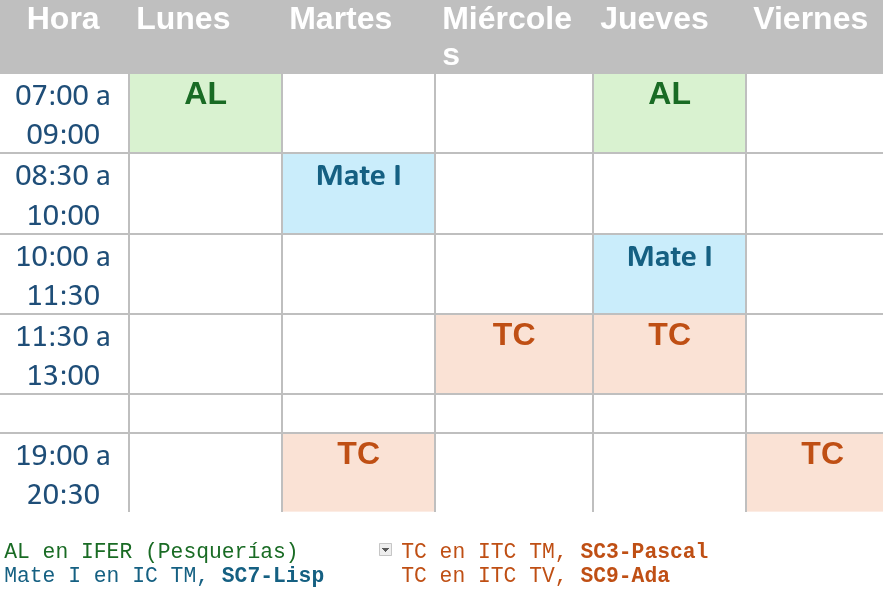
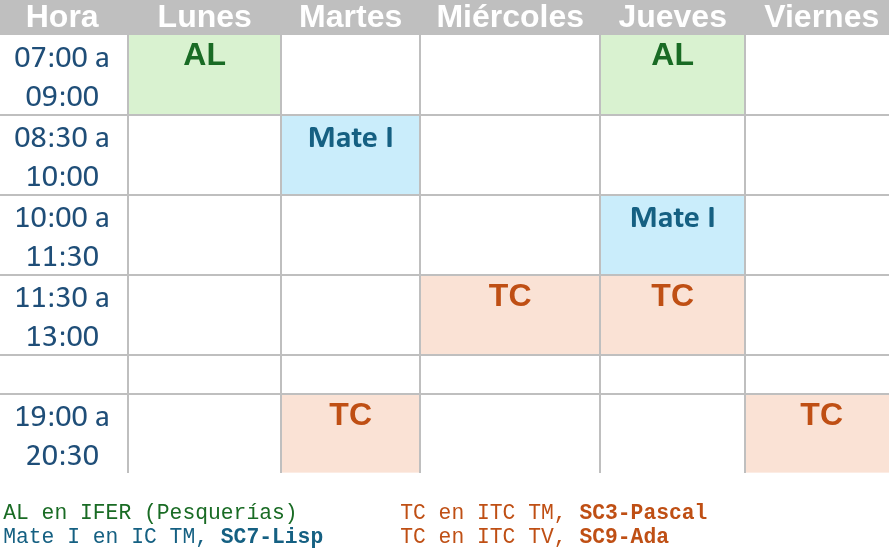
Actualizar enlaces y mejorar contenido en docencia.md; añadir detalles sobre experiencias musicales en personal.md; ajustar descripciones en prog.md.

Changed region(s): [[0.0, 0.0, 1.0, 0.867], [0.4281, 0.898, 0.795, 0.9909], [0.0, 0.898, 0.3669, 1.0]]

diff --git a/prog.md b/prog.md
@@ -318,13 +318,13 @@ El código en LaTeX no se ha modernizado y no compila.
 ### MkTree {#mktree}
 <small style="color: #999;">septiembre de 1993</small>
 
-El primer cuatrimestre, cursaba Lógica Matemática del Dr. Guillermo Morales. Una de las primeras tareas fue una tabla de verdad para $$n$$ variables. Tuve la afortunada ocurrencia de tratar de generar el árbol sintáctico para luego evaluarlo con facilidad. Mis otros compañeros se fueron por la opción de hacer un analizador recursivo, un parser más sencillo. Para mi ambos eran desconocidos, yo no venía del área de computación.
+El primer cuatrimestre de la maestría en el CINVESTAV, cursaba Lógica Matemática del Dr. Guillermo Morales. Una de las primeras tareas fue una tabla de verdad para $$n$$ variables. Tuve la afortunada ocurrencia de tratar de generar el árbol sintáctico para luego evaluarlo con facilidad. Mis otros compañeros se fueron por la opción de hacer un analizador recursivo, un parser más sencillo. Para mi ambos eran desconocidos, yo no venía del área de computación, y opté por construir el árbol en memoria. La experiencia con árboles en mi tesis de licenciatura me daba confianza.
 
 Este programa me costó varios días, menos de una semana, recuerdo, pero trabajábamos todo el día en el CINVESTAV. `MkTree` (así lo llamé) toma una fórmula proposicional escrita como cadena de texto — con `^`, `|`, `->`, `<->` y negación `—` y construye su árbol sintáctico respetando la precedencia entre conectivos. Sobre ese árbol se apoyaba un programa completo de tablas de verdad, con su propia interfaz de ventanas en modo texto de la época.
 
-Lo que no esperaba es que el mismo esqueleto — convertir una cadena en árbol, y luego manipular el árbol — me sirviera para más que tablas de verdad. Con el árbol ya construido, podíamos ordenarlo a una forma canónica y compararlo con otros, un ladrillo natural hacia la demostración automática de teoremas: unir árboles simples para construir expresiones más grandes. Todos en el curso lo adoptamos para los siguientes programar. Y cuando después llevamos un curso de autómatas y lenguajes formales, reciclé la misma idea, cambiando los conectivos lógicos por los del álgebra de expresiones regulares, para simplificar las expresiones enredadas que salen de eliminar estados de un autómata.
+Lo que no esperaba es que el mismo esqueleto — convertir una cadena en árbol, y luego manipular el árbol — me sirviera para más que tablas de verdad. Con el árbol ya construido, podíamos ordenarlo a una forma canónica y compararlo con otros, un ladrillo natural hacia la demostración automática de teoremas: unir árboles simples para construir expresiones más grandes o reconstruir la nueva cadena a partir del árbol resultante. Todos en el curso lo adoptamos para los siguientes programas. Y cuando después llevamos un curso de autómatas y lenguajes formales, reciclé la misma idea, cambiando los conectivos lógicos por los del álgebra de expresiones regulares, para simplificar las expresiones enredadas que salen de eliminar estados de un autómata.
 
-Ese cuatrimestre, y los que le siguieron, MkTree se volvió la pieza que varios de nosotros reutilizábamos sin pensarlo dos veces. Compilaba en Turbo C/C++, con `conio.h`, `new` y `delete`, y todas las señas de su época. Hoy ni compila, y viéndolo con mi ojo crítico actual, tiene sus fallas. Pero la idea de fondo — parsear, construir el árbol, reescribir sobre él — no envejeció mal en absoluto. Se gana su lugar en este baúl de los recuerdos.
+Ese cuatrimestre, y los que le siguieron, MkTree se volvió la pieza que varios de nosotros reutilizábamos sin pensarlo dos veces. Compilaba en Turbo C/C++, con los servicios de `conio.h` y `longjmp.h`, todas las señas de su época. Hoy ni compila, y viéndolo con mi ojo crítico actual, tiene sus fallas. Pero la idea de fondo — parsear, construir el árbol, reescribir sobre él — no envejeció mal en absoluto. Se gana su lugar en este baúl de los recuerdos.
 
 <img src="/assets/images/prog/MkTreeBC31.png" alt="Recreación visual (generada con IA) de MkTree.c abierto en Borland C++ 3.1" width="500">
 

diff --git a/personal.md b/personal.md
@@ -60,14 +60,23 @@ Luego de 10 años juntos, tuvimos a Miguel. Dos años después a Antonio. Cuando
 
 <small style="color: #999;">Verano de 1979</small>
 
-Entré a los 9 años a la Escuela de Música. Solfeo con Juana Teresa Ruiz Aguirre y pocos meses después batería con el profe Polo Montoya. Luego guitarra con él mismo. A los pocos años ya estaba con Jorge Isidoro Cardoza López. Grandes años, siguiendo los métodos de Sagreras, Carulli y Pujol. Un nuevo mundo cuando nos visitó Selvio Carrizosa, del Conservatorio Nacional, y nos abrió las puertas a lo que era tocar guitarra en serio.
+Entré a los 9 años a la Escuela de Música. Solfeo con Juana Teresa Ruiz Aguirre y pocos meses después batería con el profe Polo Montoya. Luego guitarra con él mismo. A los pocos años ya estaba con Jorge Isidoro Cardoza López. Grandes años, siguiendo los métodos de Sagreras, Carulli y Pujol. 
+
+Conocimos un nuevo mundo cuando nos visitó Selvio Carrizosa, maestro del Conservatorio Nacional, y nos abrió las puertas a lo que era tocar guitarra en serio. Detalles técnicos como los cruces, la optimización de movimientos, el cuidado de las uñas y mucho más.
+
+**Yamaha**
 
 Aprendí rápido y a los 15 años comencé a dos clases en la academia Musical Bustamante. Mis primeras experiencias enseñando a otros y mi primera lanita. Fue una buena etapa. Entre otras cosas, tuve la oportunidad de ir al DF, al Seminario de Guitarra para Maestros de Yamaha. Ahí conocí a varios excelentes guitarristas y conseguí fotocopias de muchísimas partituras.
 
-Me falta:
-- Yamaha
-- Trío Giuliani
+El más notable fue sin duda Juan Carlos Laguna, estudiante de la Escuela Nacional de Música de penúltimo año. Me invitó a ir a su casa y me sorprendió la cantidad de partituras en su cuarto, por todos lados. Alteros y más alteros, aparentemente desorganizados.
 
+**Trío Giuliani**
+
+Debió ser a mediados de 1990, cuando acompañé a Myriam Cisneros a la Casa de la Cultura porque ella quería tomar clases de baile folclórico. En una oficina encontramos la lista de cursos y maestros y vi que quien atendía guitarra clásica era Pablo Edmundo Ríos. Myriam se apuntó y yo no iba con la intención, pero también me apunté a la clase. Ya tenía referencia de Pablo por mi primo Jesusi, que lo conocía de ambientes musicales. A las pocas semanas comencé a ir con Pablo a tocar guitarra y por esos días también llegó Alejandro Barceló. 
+
+Pablo organizó de inmediato tríos y duos para ensayar. A los pocos meses ya andaba consiguiendo conciertos con el Instituto Sonorense de Cultura. Para Alejandro y para mi, estudiantes, era una lanita que no nos caía nada mal. Así conocimos diversas poblaciones de Sonora. 
+
+Fueron años felices practicando guitarra. Yo iba casi todos los días a las 7pm a practicar, tuviera trabajos o exámenes. Myriam no corrió con suerte, no se abrió su curso.
 
 {% include volver-seccion.html url="/personal/" %}
 

diff --git a/docencia.md b/docencia.md
@@ -9,10 +9,10 @@ Me tienen aquí dos cosas: el gusto por aprender y el gusto por compartir. No cr
 
 **Asignaturas del semestre actual** 
 
-Es importante consultar los sitios oficiales en la plataforma [EnLinea-UABCS](https://enlinea.uabcs.mx/). El temario oficial se pondrá en dicha plataforma, con los cambios necesarios, esta página tiene temarios genéricos que sirven a toda carrera. La liga directa a la página de cada curso en EnLíneaUABCS se agrega al final en cada caso.
-- [Teoría de la Computación](#TC), en ITC, TM y TV, DASC
-- [Cálculo Diferencial](#Cálculo-Diferencial), en IC TM, DASC. Liga a [EnLíneaUABCS-CalcDif](https://enlinea2026-2.uabcs.mx/course/view.php?id=3855){:target="_blank" rel="noopener noreferrer"}.
-- [Álgebra Lineal](#álgebra-lineal), en IFER, Pesquerías. Liga a [EnLíneaUABCS-AL](https://enlinea2026-2.uabcs.mx/course/view.php?id=4062){:target="_blank" rel="noopener noreferrer"}.
+Es importante consultar los sitios oficiales en la plataforma [EnLinea-UABCS](https://enlinea.uabcs.mx/). El temario oficial se pondrá en dicha plataforma, con los cambios necesarios, esta página tiene temarios genéricos que sirven a toda carrera. La **liga directa** lleva a la página de cada curso en la plataforma EnLíneaUABCS.
+- [Teoría de la Computación](#TC), en ITC. [Liga directa TM](https://enlinea2026-2.uabcs.mx/course/view.php?id=3852){:target="_blank" rel="noopener noreferrer"}, [Liga directa TV](https://enlinea2026-2.uabcs.mx/course/view.php?id=3851){:target="_blank" rel="noopener noreferrer"}, DASC.
+- [Cálculo Diferencial (Mate I)](#Cálculo-Diferencial), en IC TM, DASC. [Liga directa](https://enlinea2026-2.uabcs.mx/course/view.php?id=3855){:target="_blank" rel="noopener noreferrer"}.
+- [Álgebra Lineal](#álgebra-lineal), en IFER, Pesquerías. [Liga directa](https://enlinea2026-2.uabcs.mx/course/view.php?id=4062){:target="_blank" rel="noopener noreferrer"}.
 
 <div style="clear: both;"></div>
 
